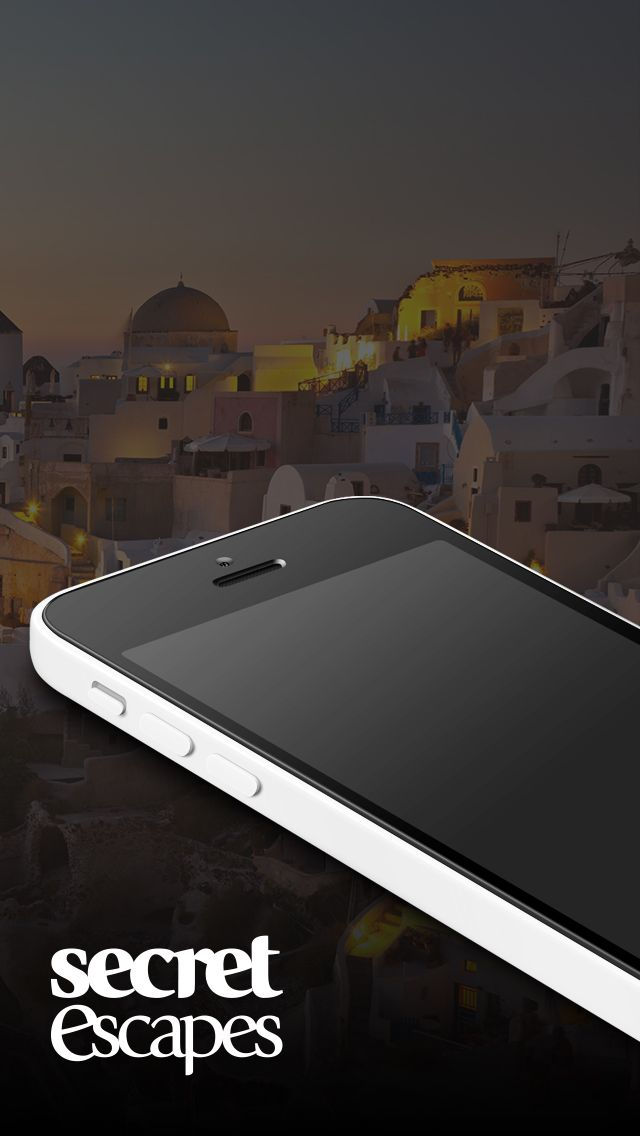
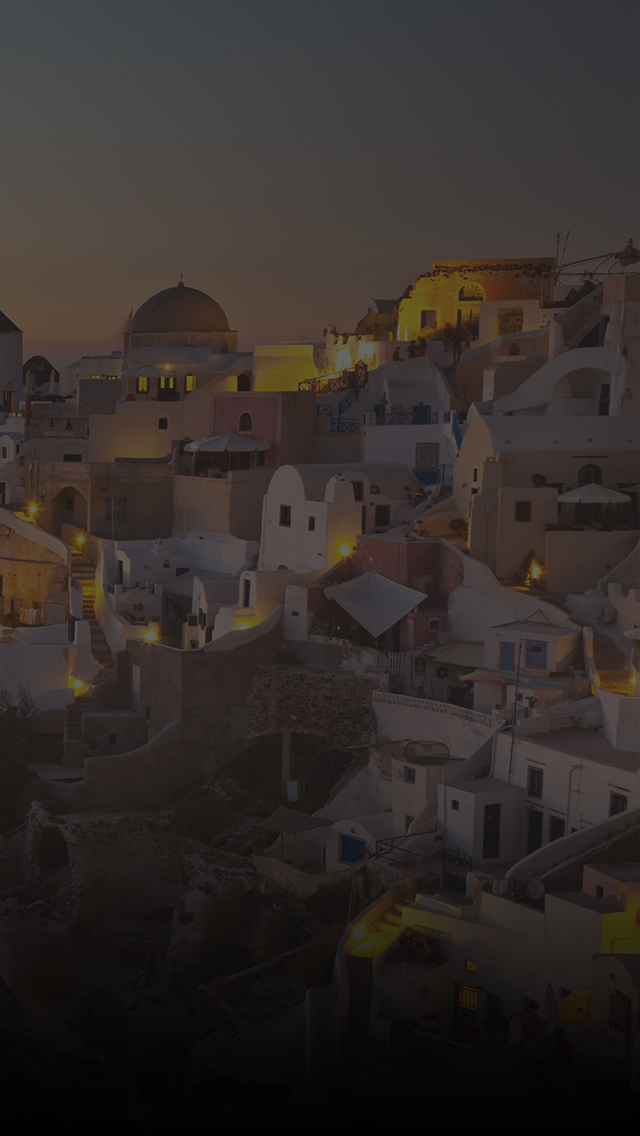
Adds both versions of the assets

Changed region(s): [[0.0312, 0.4313, 1.0, 0.9243], [0.0625, 0.8011, 0.4375, 0.9551], [0.4062, 0.4313, 0.5, 0.4621]]

diff --git a/css/main.css b/css/main.css
@@ -140,20 +140,12 @@ h1 {
   margin-left: -16px;
 }
 
-.overlay {
+.logo {
   position: relative;
-  z-index: 1;
-  margin-top: -430px;
-  margin-left:  -50px;
-  height: 412px;
-  width: 640px;
-  background: url('../img/overlay_black.png') no-repeat;
-  padding: 0 50px;
+  margin-top: -210px;
+  margin-left: -50px;
 }
 
-.overlay img {
-  margin-top: 210px;
-}
 
 /* ==========================================================================
    Helper classes

diff --git a/index.html b/index.html
@@ -41,8 +41,8 @@
               <strong>Continue to the Mobile Site</strong>
             </a>
 
-            <img src='./img/UK.png' class='phoneScreen' /> <!-- Here goes the phone screen image -->
-            <img src='./img/glare.png' class='phoneGlare' />
+            <img src='./img/phone_white.png' class='phone' /> <!-- Here goes the phone screen image -->
+            <img src='./img/logo_light.png' class='logo' />
 
           </div>
         </div>
